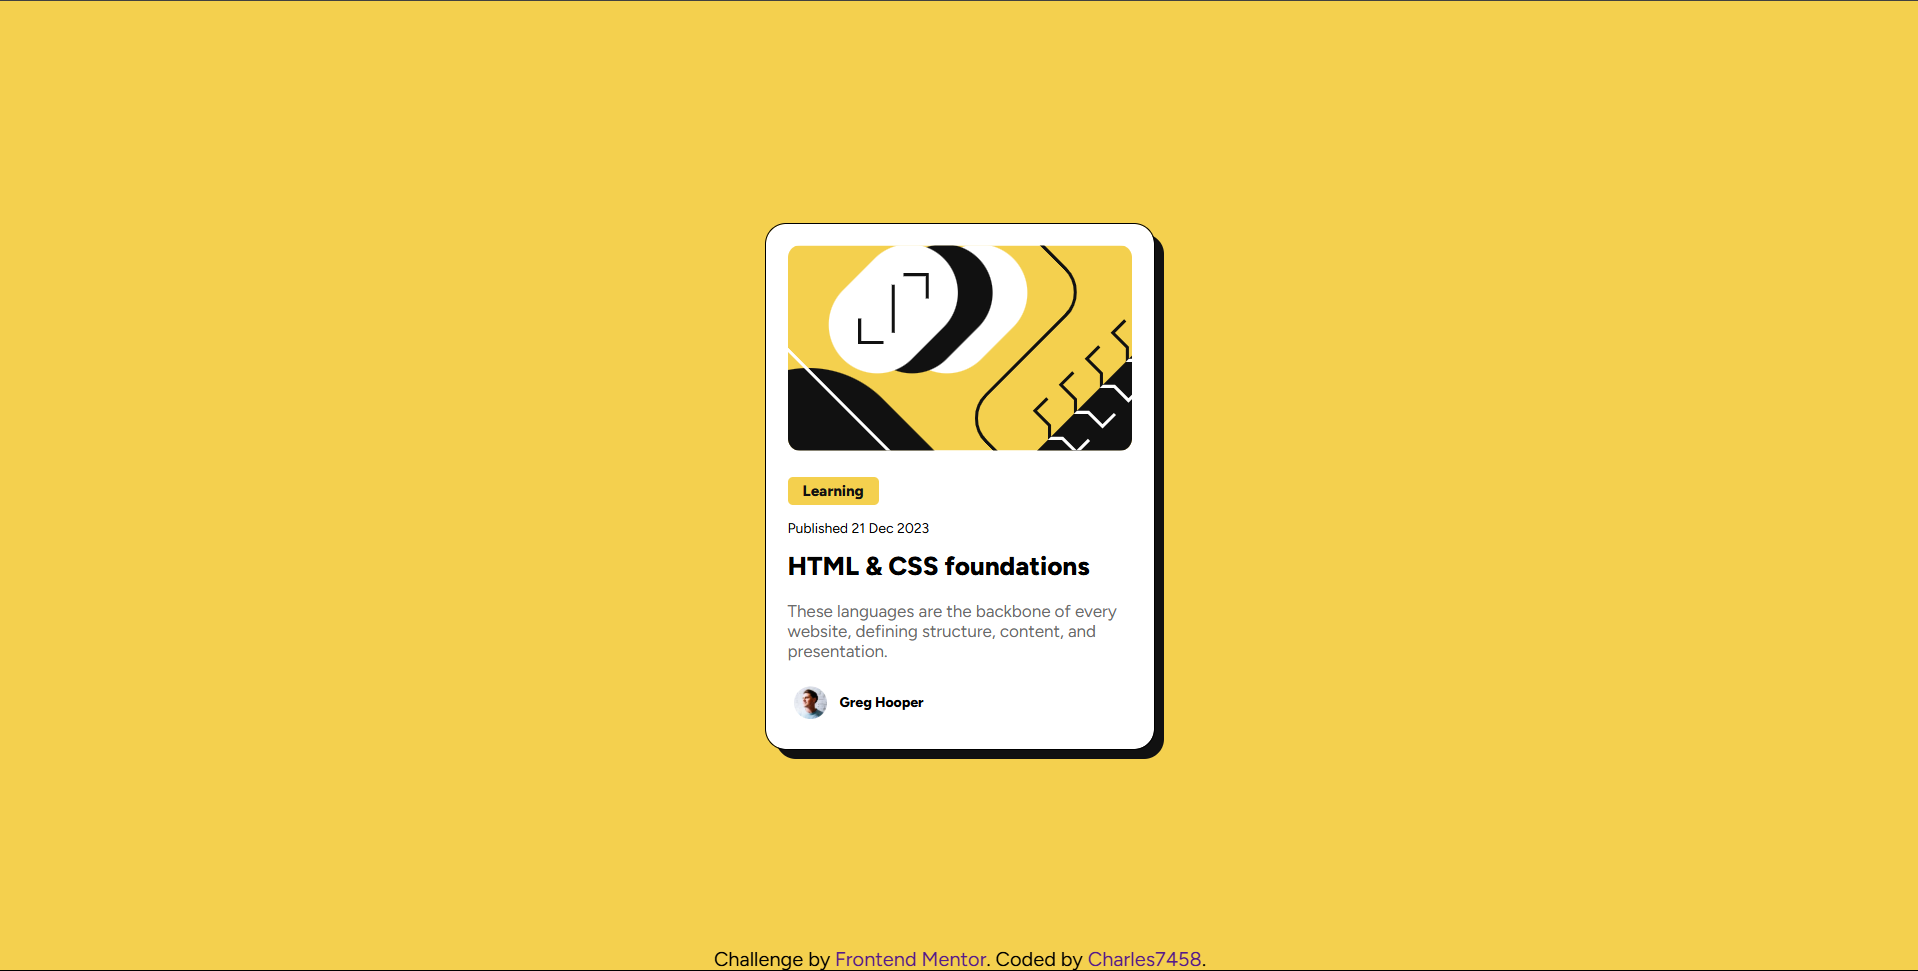
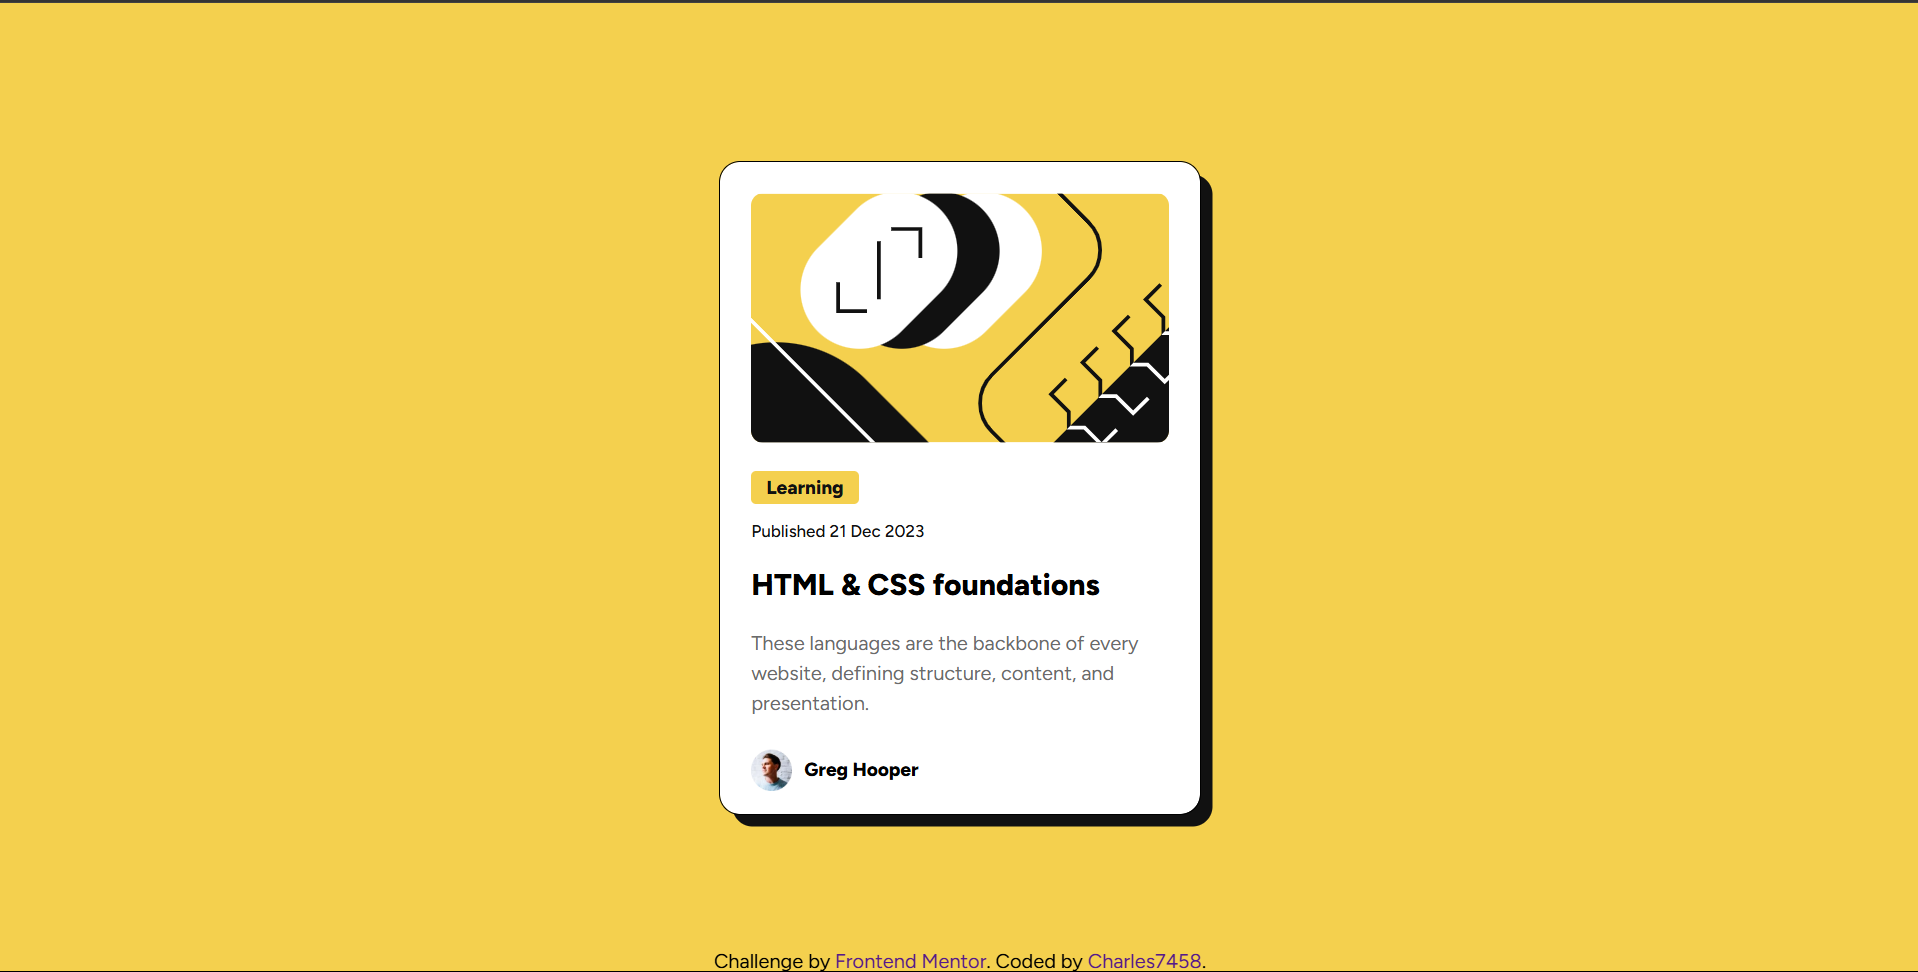
third commit

Changed region(s): [[0.3691, 0.1545, 0.646, 0.8651], [0.3691, 0.9887, 0.646, 1.0]]

diff --git a/styles.css b/styles.css
@@ -16,22 +16,23 @@ body {
 }
 
 .blog-card {
-    height: 420px;
+    height: 522px;
     margin: 0 auto;
-    width: 310px;
+    width: 384px;
     border-radius: 16px;
     background-color: white;
     align-items: center;
     justify-content: center;
-    box-shadow: 8px 8px 0px 0px rgb(17, 17, 17);
+    box-shadow: 10px 10px 0px 0px rgb(17, 17, 17);
     outline: 1px solid black;
 }
 
 
 .illustration {
-    height: 165px;
+    height: 200px;
     border-radius: 10px;
-    margin: 17px 17px 17px 17px;
+    margin: 25px;
+    margin-bottom: 18px;
 }
 
 
@@ -43,21 +44,23 @@ body {
      /* margin-left: 15px; */
      padding: 4px 12px;
      font-family: "Figtree", sans-serif;
-     font-size: 0.75rem;
+     font-size: 0.95rem;
      font-weight: 800;
 }
 
 .info , .author{
-    padding-left: 17px;
+    padding-left: 25px;
 }
 
 .published {
-    font-size: 0.70rem;
-    padding: 12px 10px 10px 0px;
+    font-size: 0.85rem;
+    font-weight: 500;
+    padding: 14px 10px 20px 0px;
+    color: rgb(17, 17, 17);
 }
 
 .heading {
-    font-size: 1.3rem;
+    font-size: 1.5rem;
     font-weight: 800;
     cursor: pointer;
 }
@@ -67,14 +70,16 @@ body {
 }
 
 .blog {
-    margin: 15px 0px 10px 0px;
-    font-size: 0.85rem;
+    margin: 20px 0px 10px 0px;
+    font-size: 1rem;
+    line-height: 24px;
     color: rgb(107,107,107);
+    width: 350px;
 }
 
 .author {
     display: flex;
-    margin: 15px 0px 0px 0px ;
+    margin-top: 20px;
     text-align: center;
 }
 
@@ -82,7 +87,7 @@ body {
     /* margin: 7px 5px 0px 5px; */
     
     font-weight: 800;
-    font-size: 0.7rem;
+    font-size: 0.95rem;
     align-self: center;
     padding-top: 5px;
 }
@@ -92,8 +97,8 @@ body {
 }
 
 .pfp {
-    height: 32px;
-    padding: 5px 10px 0px 5px;
+    height: 38px;
+    padding: 5px 10px 0px 0px;
 }
 
 .attribution {

diff --git a/index.html b/index.html
@@ -23,7 +23,7 @@
                 <p class="name">Greg Hooper</p>
             </div>
     </div>
-    <div class="attribution">
+    <div class="attribution" role="attribution">
         Challenge by <a href="https://www.frontendmentor.io?ref=challenge" target="_blank">Frontend Mentor</a>. 
         Coded by <a href="https://www.frontendmentor.io/profile/Charles7458" target="_blank">Charles7458</a>.
       </div>
